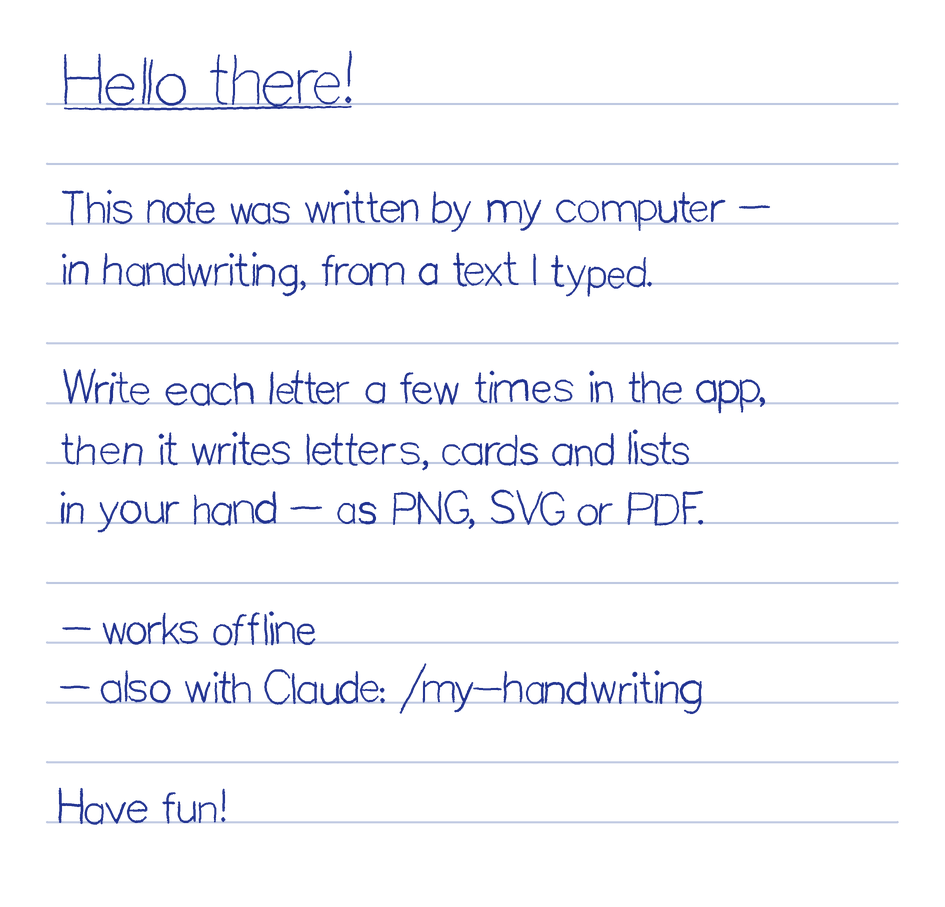
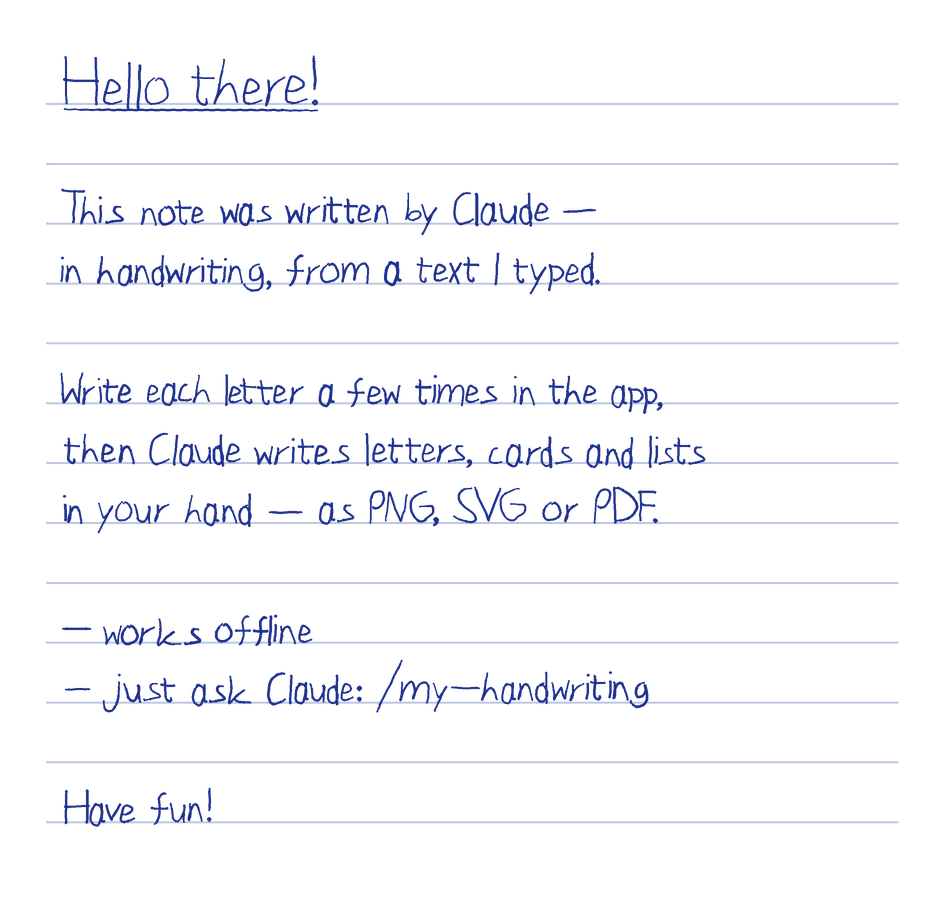
README: new example note and screenshot

diff --git a/CLAUDE.md b/CLAUDE.md
@@ -16,7 +16,8 @@ More: `README.md`, `docs/CONCEPT.md` (full concept, data format, limits, ideas),
   external fonts/libraries). Must work by double-click (`file://`) **and** over https (GitHub Pages).
 - Python: standard library only, Python ≥ 3.8; Pillow only optional (PNG, `tests/make_fixture.py`).
   The skill folder `skill/my-handwriting/` must stay self-contained (it is copied by `install`).
-- **Never real handwriting samples in the repository.** Tests use the synthetic samples of
+- **Never real handwriting sample files in the repository** (exports, `data/`, skill ZIPs). The README
+  pictures `docs/example.png` + `docs/screenshot.png` show an example handwriting the owner wrote in the app. Tests use the synthetic samples of
   `tests/make_fixture.py`. `.gitignore` excludes `skill/my-handwriting/data/`, exports, `out/`.
 - Data format `my-handwriting-glyphs` v1: only **extend**; old files must stay readable
   (`handschrift-glyphs` = old name, files without `scripts` = German).
@@ -51,12 +52,15 @@ More: `README.md`, `docs/CONCEPT.md` (full concept, data format, limits, ideas),
 - Only one tab may run: opening a second tab pauses the first (`#tabLock`). Tests with two tabs: the
   older one shows "Use here" (reload). Close extra preview tabs, or the main tab stays paused.
 - README screenshot / PNG icons: rendered with Edge headless over the DevTools protocol (Node 22 has
-  `WebSocket`), with the synthetic fixture only. Scripts are not in the repo; re-create when needed.
-- README banner / example (`docs/banner.png`, `docs/example.png`): `render` with a glyph file holding
-  one dummy sample (`|`), so every letter comes from the standard handwriting (a file with no samples
-  is refused); banner = icon-512 + white title/subtitle (`--transparent --no-realism`) composed with
+  `WebSocket`; light mode via `Emulation.setEmulatedMedia`). Scripts are not in the repo; re-create when
+  needed. The screenshot shows the owner's "g" (their export copied to `out/`, merged in a fresh headless
+  profile, the sample replayed on `#pad` with pointer events, not saved).
+- README example (`docs/example.png`): written with the owner's installed skill (`render --markdown
+  --page auto --width 120 --size 4 --paper lined --color blue`), text: the old note with "written by Claude", no caption under it. Banner
+  (`docs/banner.png`): `render` with a glyph file holding one dummy sample (`|`) for the standard
+  handwriting (a file with no samples is refused); banner = icon-512 + white title/subtitle (`--transparent --no-realism`) composed with
   Pillow on navy with faint ruled lines. The title is now drawn by hand by the owner (Paint.NET) - keep
-  their banner, do not regenerate it. Never use the user's real exports (e.g. in Downloads) here.
+  their banner, do not regenerate it. Use the owner's handwriting in pictures only when they ask.
 - README preview without GitHub: `out/readme-preview.html` (ignored; marked + github-markdown-css
   from jsDelivr) over the local server. Notion and similar tools cannot show relative images.
 - After editing files, the preview browser may still run the **old cached** `app.js` (python's
@@ -216,5 +220,5 @@ time, start-fail message, PNG icons, README screenshot, Claude trademark note.
 everything, "Use in Claude" (skill ZIP built in the browser + copy-paste messages), `--profile`.
 1.0.0 (2026-11-17): 6 languages, wizard with Claude settings, standard handwriting, Markdown, skill
 install/package/info, pen hover/palm handling, own characters in the overview.
-Open: real devices (pen laptop with S Pen, iPad + Pencil, Android), Safari storage (7-day rule),
-publishing (docs/PUBLISHING.md). Ideas: docs/CONCEPT.md → "Ideas for later".
+Published 2026-11-21: GitHub (public) + Pages + release v1.5.1. Open: real devices (pen laptop with S Pen,
+iPad + Pencil, Android), Safari storage (7-day rule). Ideas: docs/CONCEPT.md → "Ideas for later".

diff --git a/docs/PUBLISHING.md b/docs/PUBLISHING.md
@@ -4,7 +4,7 @@
 
 | Question | Result |
 |---|---|
-| Personal data in the code? | None: no names, e-mail addresses, local paths or real samples. Sample files (`skill/my-handwriting/data/`, `*-glyphs-*.json`, `my-handwriting-skill.zip`), outputs and `out/` are in `.gitignore`. The screenshot uses a hand-drawn test letter and the synthetic fixture. |
+| Personal data in the code? | None: no names, e-mail addresses, local paths or real samples. Sample files (`skill/my-handwriting/data/`, `*-glyphs-*.json`, `my-handwriting-skill.zip`), outputs and `out/` are in `.gitignore`. The README example and screenshot show an example handwriting the owner wrote in the app (pictures only, no sample file). |
 | E-mail in commits | Git writes the author e-mail into every commit. Use the GitHub `…@users.noreply.github.com` address (GitHub → Settings → Emails → "Keep my email addresses private"). Check: `git log --format=%ae` shows only the noreply address. |
 | License | MIT (`LICENSE`, a copy in `skill/my-handwriting/` so the skill ZIP carries it too). Third-party data: Hershey fonts (free use with acknowledgement, `NOTICE.md`, `tools/hershey/LICENSE-hershey.txt`). No other third-party code, fonts or images. |
 | Icons / logos | All icons drawn for this project (SVG sprite in `index.html`, `icon.svg`, `icons/*.png`). No Claude/Anthropic logo, no Anthropic brand colour, no emoji images. |

diff --git a/NOTICE.md b/NOTICE.md
@@ -22,8 +22,9 @@ The data is stored here in its own JSON/JavaScript format (not the format distri
 
 The app icon and all interface icons (the SVG sprite in `index.html`, `icon.svg`, `icons/*.png`) were
 drawn for this project and are covered by the MIT License. The README pictures were made for this project
-too: the banner title (`docs/banner.png`) is drawn by hand, its subtitle and `docs/example.png` use the app's
-own standard handwriting (no handwriting samples). No icon fonts, emoji images or logos of
+too: the banner title (`docs/banner.png`) is drawn by hand; `docs/example.png` and `docs/screenshot.png` show
+an example handwriting written in the app by the project owner (punctuation from the standard
+handwriting). No sample files are included. No icon fonts, emoji images or logos of
 other companies are included.
 
 ## Trademarks

diff --git a/README.md b/README.md
@@ -56,12 +56,11 @@ about 2020 or newer (Chrome/Edge 80+, Firefox 78+, Safari 14+).
 ## ✍ Output
 
 <p align="center">
-  <img src="docs/example.png" alt="A note written by the app on lined paper" width="480">
+  <img src="docs/example.png" alt="A handwritten note on lined paper, written by Claude with my-handwriting" width="480">
 </p>
-<p align="center"><sub>Written by the skill that Claude uses – here with the built-in standard handwriting. With your samples it looks like you.</sub></p>
 
 <p align="center">
-  <img src="docs/screenshot.png" alt="The app: writing area and overview" width="100%">
+  <img src="docs/screenshot.png" alt="The app: writing a g on the writing area, overview on the right" width="100%">
 </p>
 
 ## 🏁 How it works
